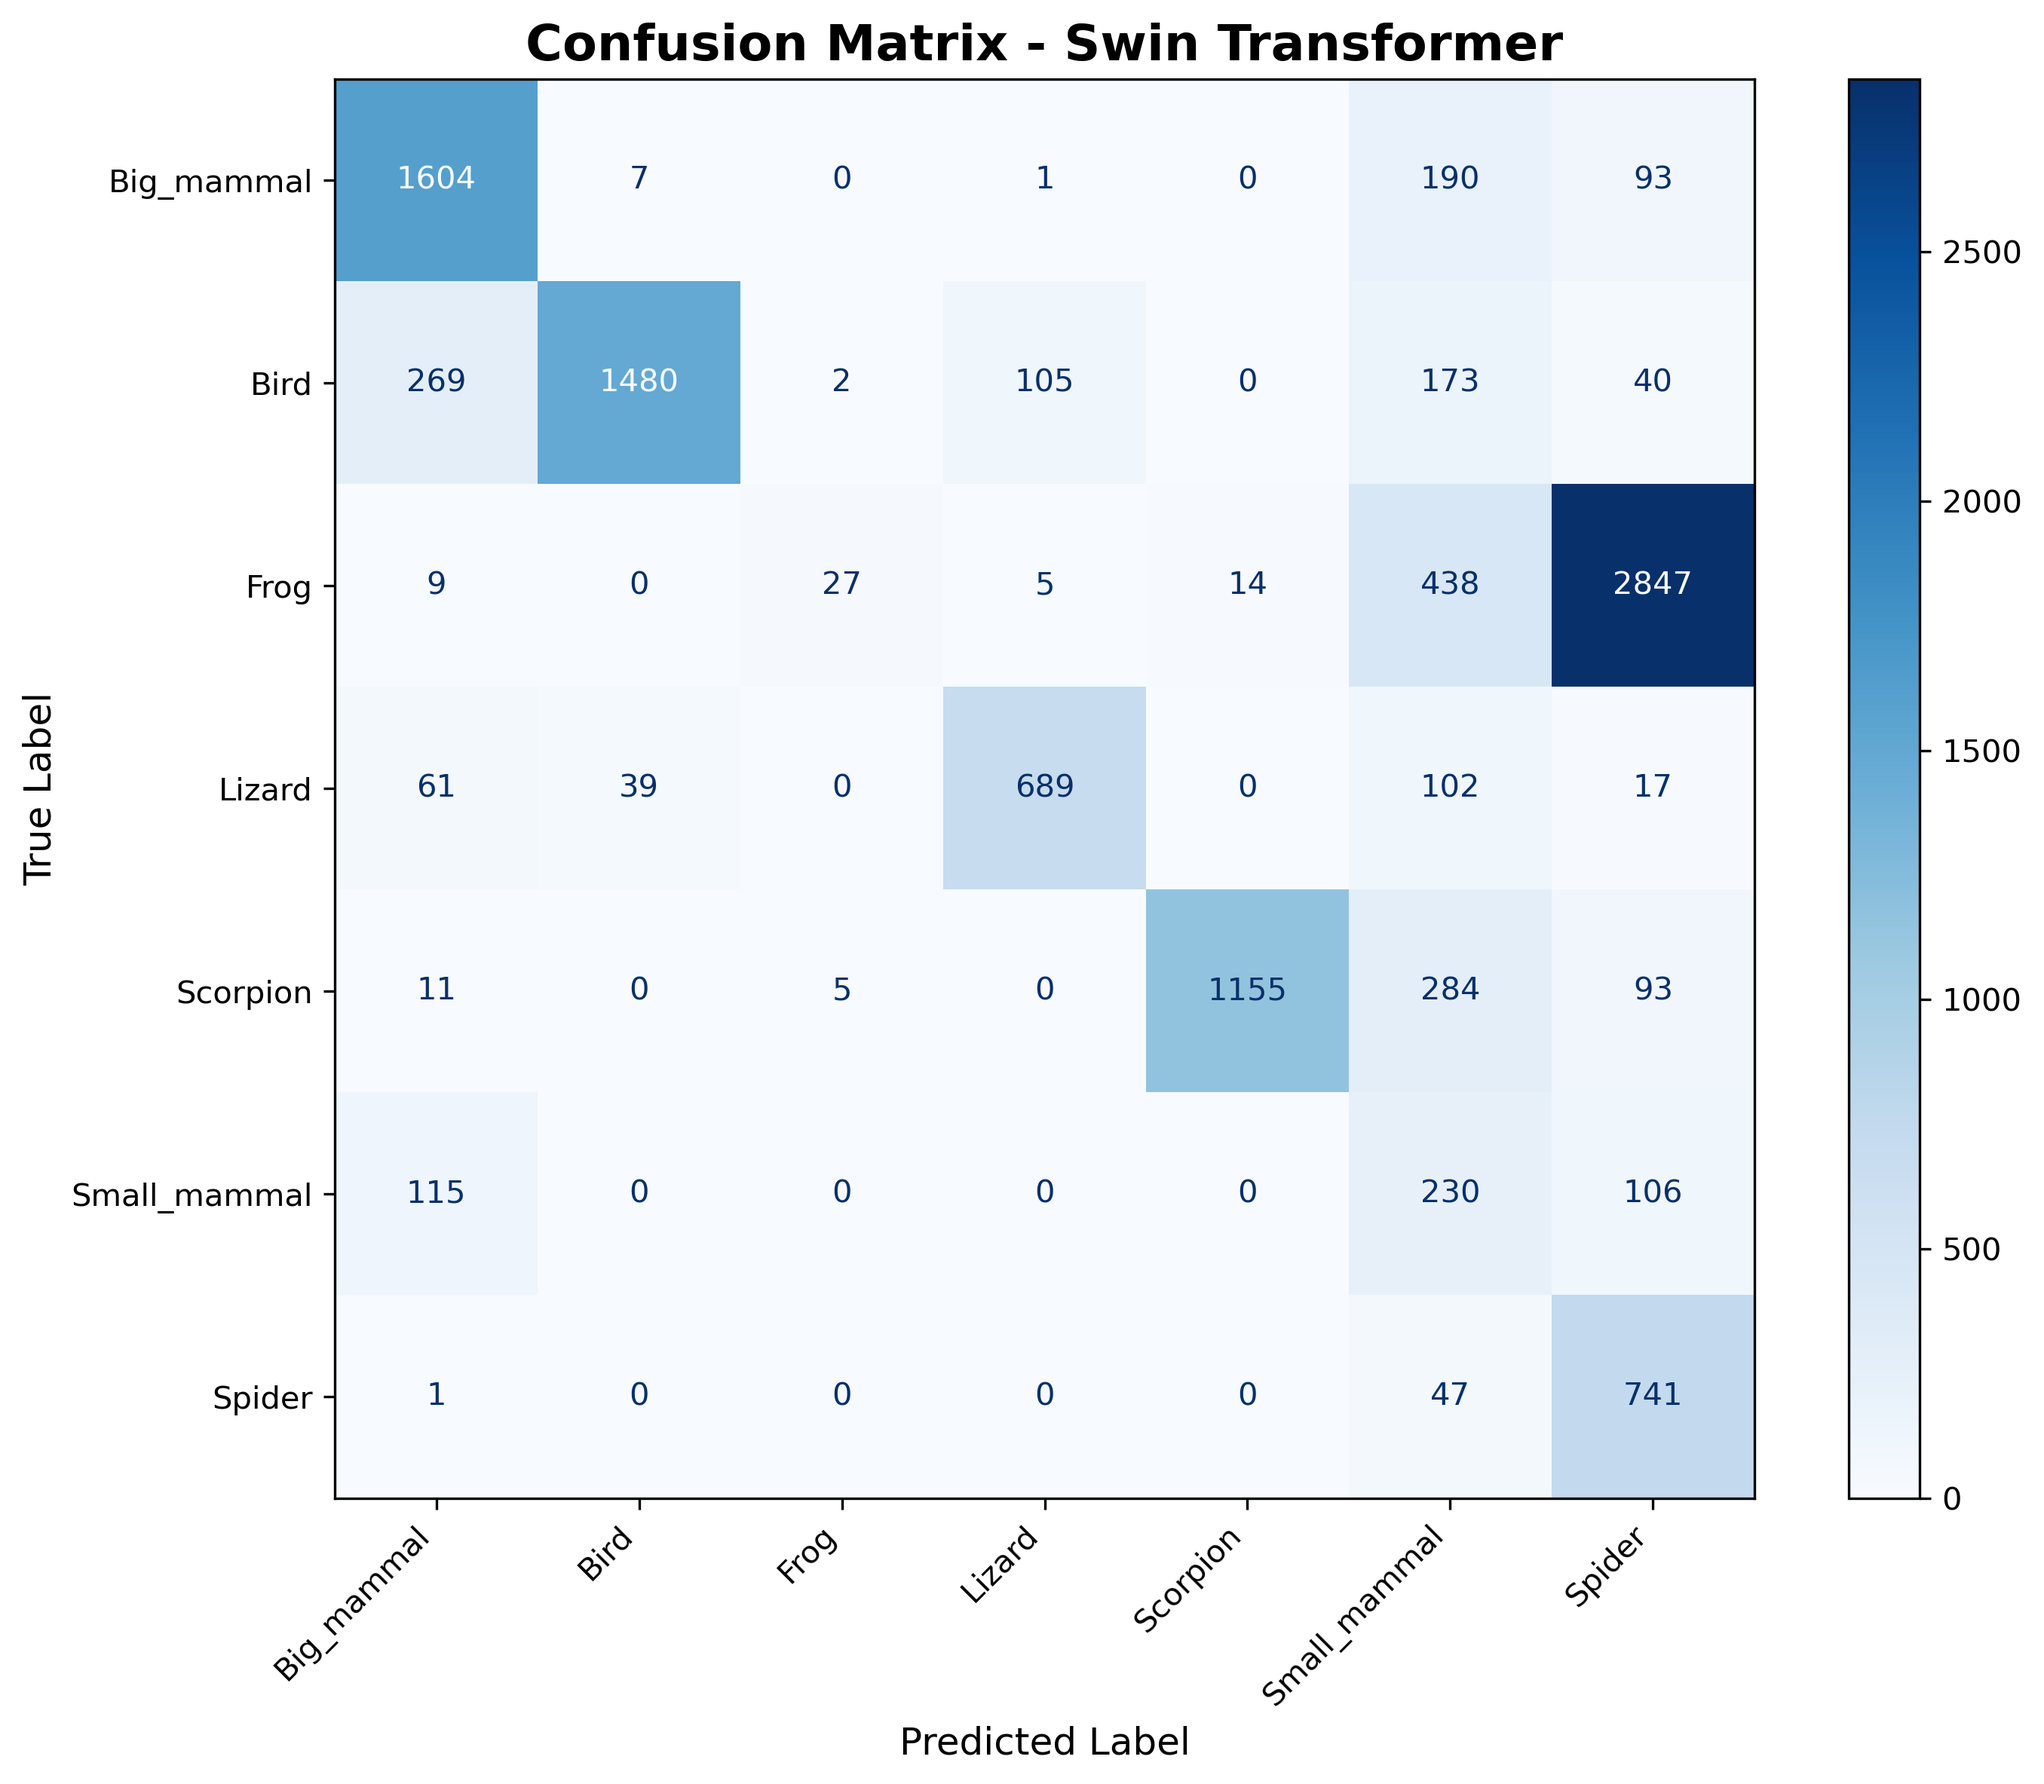
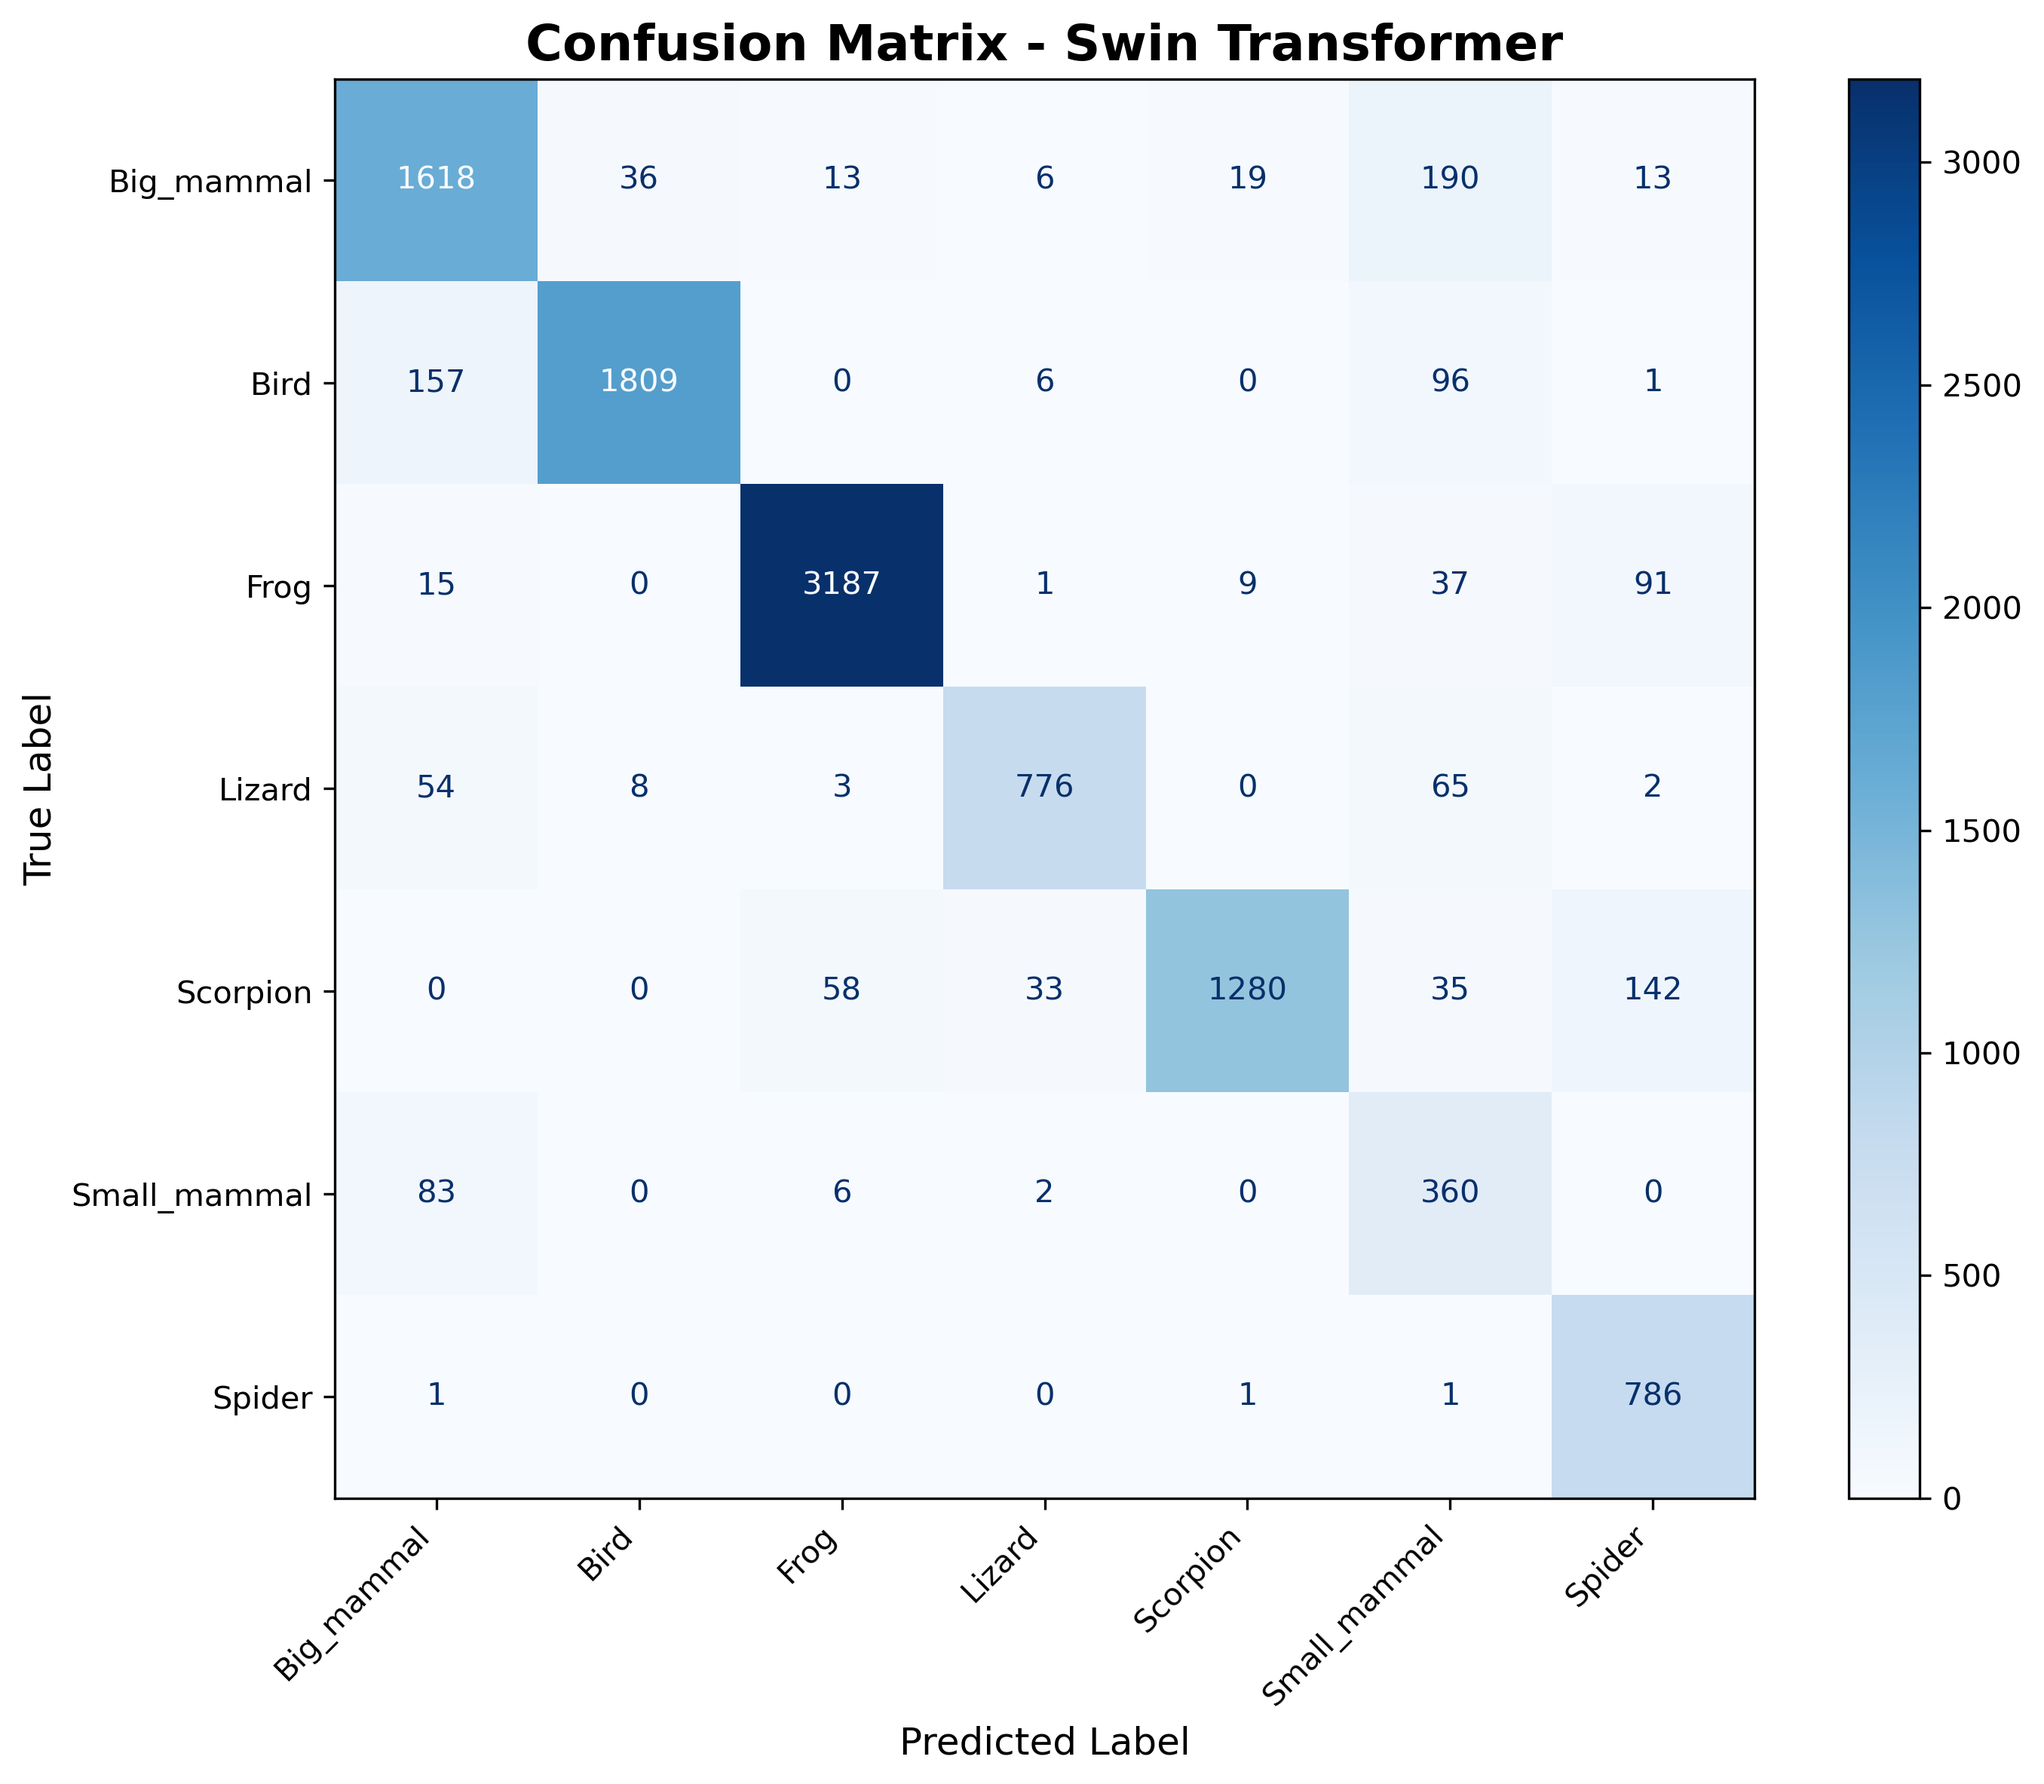
frogss fixedd baby!!

diff --git a/dataset.py b/dataset.py
@@ -44,23 +44,71 @@ class DetectionAsClassificationDataset(Dataset):
         except:
             return None
 
+    def _parse_label_with_box(self, label_path):
+        """
+        Format: class_name x_min y_min x_max y_max
+        """
+        try:
+            with open(label_path, "r") as f:
+                line = f.readline().strip()
+
+            if not line:
+                return None, None
+
+            parts = line.split()
+            class_name = parts[0]
+            x1, y1, x2, y2 = map(int, parts[1:])
+
+            if self.class_map and class_name in self.class_map:
+                cls = self.class_map[class_name]
+            else:
+                return None, None
+
+            return cls, (x1, y1, x2, y2)
+
+        except:
+            return None, None
+
+
+    # def __getitem__(self, idx):
+    #     img_path = self.img_paths[idx]
+
+    #     # Load image
+    #     img = Image.open(img_path).convert("RGB")
+
+    #     # Find matching label file
+    #     base = os.path.splitext(os.path.basename(img_path))[0]
+    #     label_path = os.path.join(self.label_dir, base + ".txt")
+
+    #     # Parse label
+    #     label = self._parse_simple_label(label_path)
+
+    #     if label is None:s
+    #         label = 0  # fallback, but should rarely happen
+
+    #     if self.transforms:
+    #         img = self.transforms(img)
+
+    #     return img, label
+
     def __getitem__(self, idx):
         img_path = self.img_paths[idx]
+        img = Image.open(img_path).convert('RGB')
 
-        # Load image
-        img = Image.open(img_path).convert("RGB")
-
-        # Find matching label file
         base = os.path.splitext(os.path.basename(img_path))[0]
         label_path = os.path.join(self.label_dir, base + ".txt")
 
-        # Parse label
-        label = self._parse_simple_label(label_path)
+        cls, box = self._parse_label_with_box(label_path)
 
-        if label is None:
-            label = 0  # fallback, but should rarely happen
+        if cls is None or box is None:
+            raise ValueError(f"Invalid label file: {label_path}")
+
+        x1, y1, x2, y2 = box
+
+        # Crop to bounding box
+        crop = img.crop((x1, y1, x2, y2))
 
         if self.transforms:
-            img = self.transforms(img)
+            crop = self.transforms(crop)
 
-        return img, label
+        return crop, cls
